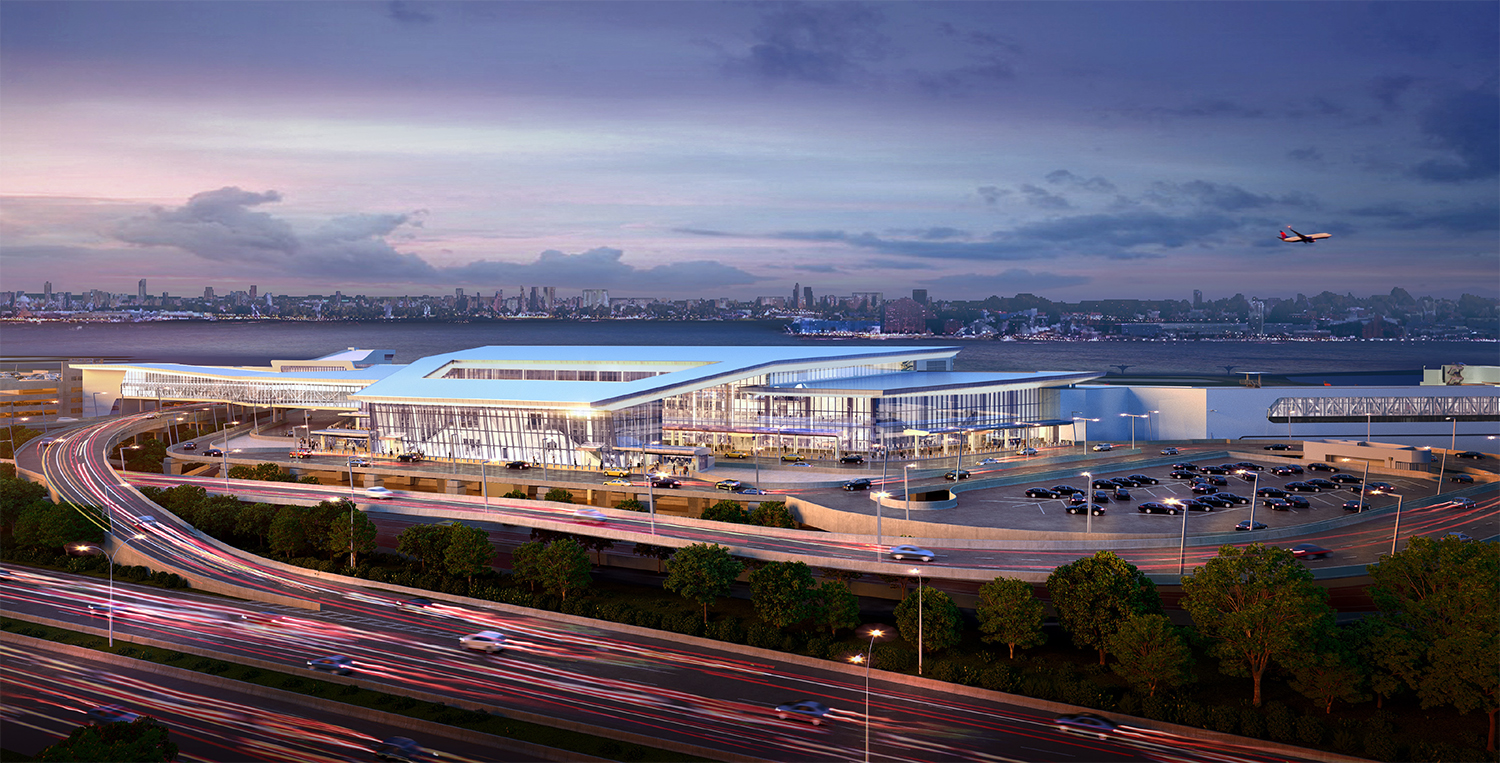
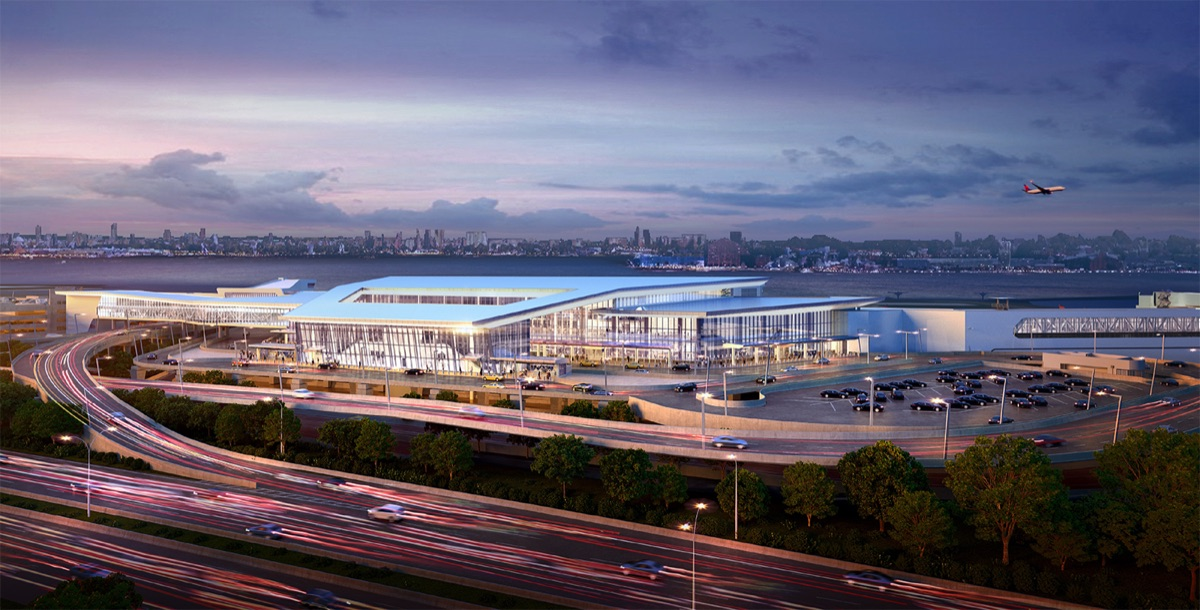
Fix SEO audit issues from October 28 report
- Remove redirect URLs from sitemap (contact-us, booking)
- Optimize LGA-4.jpg image from 1.1MB to 225KB (79% reduction)
- Fix fleet page structured data validation errors (standardize brand format)
- Shorten meta descriptions to under 160 characters on 4 pages:
  - /services/airport-transfer: 169 → 133 chars
  - /services/hourly: 170 → 139 chars
  - /airports/jfk: 163 → 138 chars
  - /airports/stewart: 163 → 137 chars

🤖 Generated with [Claude Code](https://claude.com/claude-code)

diff --git a/src/app/fleet/page.tsx b/src/app/fleet/page.tsx
@@ -455,12 +455,16 @@ export default function FleetPage() {
                   "@type": "Product",
                   "name": "Business Sedan - Lincoln MKZ",
                   "description": "Professional business sedan for executive airport transfers and corporate transportation",
-                  "brand": "Lincoln",
+                  "brand": {
+                    "@type": "Brand",
+                    "name": "Lincoln"
+                  },
                   "category": "Business Sedan",
                   "offers": {
                     "@type": "Offer",
                     "availability": "https://schema.org/InStock",
-                    "url": "https://nobleblackcarservice.com/fleet/business-sedan"
+                    "url": "https://nobleblackcarservice.com/fleet/business-sedan",
+                    "priceCurrency": "USD"
                   }
                 }
               },
@@ -492,12 +496,16 @@ export default function FleetPage() {
                   "@type": "Product",
                   "name": "Business SUV - Chevrolet Suburban",
                   "description": "Spacious SUV for group airport transfers and corporate events",
-                  "brand": "Chevrolet",
+                  "brand": {
+                    "@type": "Brand",
+                    "name": "Chevrolet"
+                  },
                   "category": "Business SUV",
                   "offers": {
                     "@type": "Offer",
                     "availability": "https://schema.org/InStock",
-                    "url": "https://nobleblackcarservice.com/fleet/business-suv"
+                    "url": "https://nobleblackcarservice.com/fleet/business-suv",
+                    "priceCurrency": "USD"
                   }
                 }
               },
@@ -529,12 +537,16 @@ export default function FleetPage() {
                   "@type": "Product",
                   "name": "Sprinter Van - Mercedes-Benz",
                   "description": "14-passenger luxury van for large group events and airport transfers",
-                  "brand": "Mercedes-Benz",
+                  "brand": {
+                    "@type": "Brand",
+                    "name": "Mercedes-Benz"
+                  },
                   "category": "Sprinter Van",
                   "offers": {
                     "@type": "Offer",
                     "availability": "https://schema.org/InStock",
-                    "url": "https://nobleblackcarservice.com/fleet/sprinter"
+                    "url": "https://nobleblackcarservice.com/fleet/sprinter",
+                    "priceCurrency": "USD"
                   }
                 }
               }

diff --git a/src/app/services/hourly/layout.tsx b/src/app/services/hourly/layout.tsx
@@ -2,7 +2,7 @@ import { Metadata } from 'next'
 
 export const metadata: Metadata = {
   title: 'Hourly Car Service NYC - Black Car by the Hour | Noble',
-  description: 'Hourly black car service in NYC. 3-hour minimum. Perfect for multiple stops, business meetings, events. Professional chauffeur at your disposal. Competitive hourly rates.',
+  description: 'Hourly black car service in NYC. 3-hour minimum. Perfect for multiple stops, business meetings, events. Professional chauffeurs available.',
   keywords: 'hourly car service NYC, black car by the hour, NYC chauffeur service, car service multiple stops',
   openGraph: {
     title: "Hourly Car Service NYC - Black Car by the Hour",

diff --git a/src/app/services/airport-transfer/layout.tsx b/src/app/services/airport-transfer/layout.tsx
@@ -2,7 +2,7 @@ import type { Metadata } from "next";
 
 export const metadata: Metadata = {
   title: "NYC Airport Car Service | JFK, LGA, EWR Transfers | Noble",
-  description: "Premium NYC airport car service to JFK, LaGuardia, Newark & all NYC airports. Flight tracking, meet & greet service, 24/7 availability. Competitive flat rates. Book now!",
+  description: "Premium NYC airport car service to JFK, LaGuardia, Newark. Flight tracking, meet & greet, 24/7 availability. Competitive flat rates.",
   keywords: [
     "nyc airport car service",
     "airport car service nyc",

diff --git a/src/app/airports/stewart/layout.tsx b/src/app/airports/stewart/layout.tsx
@@ -2,7 +2,7 @@ import type { Metadata } from "next";
 
 export const metadata: Metadata = {
   title: "Stewart Airport Car Service | SWF Hudson Valley NY | Noble",
-  description: "Premium car service to New York Stewart International Airport (SWF). Hudson Valley, Orange County, Westchester service. Professional chauffeurs, 24/7 availability.",
+  description: "Premium car service to Stewart Airport (SWF). Serving Hudson Valley, Orange County, Westchester. Professional chauffeurs available 24/7.",
   keywords: [
     "stewart airport car service",
     "swf car service",

diff --git a/src/app/airports/jfk/layout.tsx b/src/app/airports/jfk/layout.tsx
@@ -2,7 +2,7 @@ import type { Metadata } from "next";
 
 export const metadata: Metadata = {
   title: "JFK Airport Car Service | Black Car to JFK | Noble",
-  description: "Premium JFK airport car service to all 8 terminals. Professional chauffeurs, flight tracking, meet & greet service. Competitive flat rates to Manhattan. Book 24/7.",
+  description: "Premium JFK airport car service to all 8 terminals. Professional chauffeurs, flight tracking, meet & greet. Flat rates to Manhattan 24/7.",
   keywords: [
     "jfk black car service",
     "jfk airport car service",
